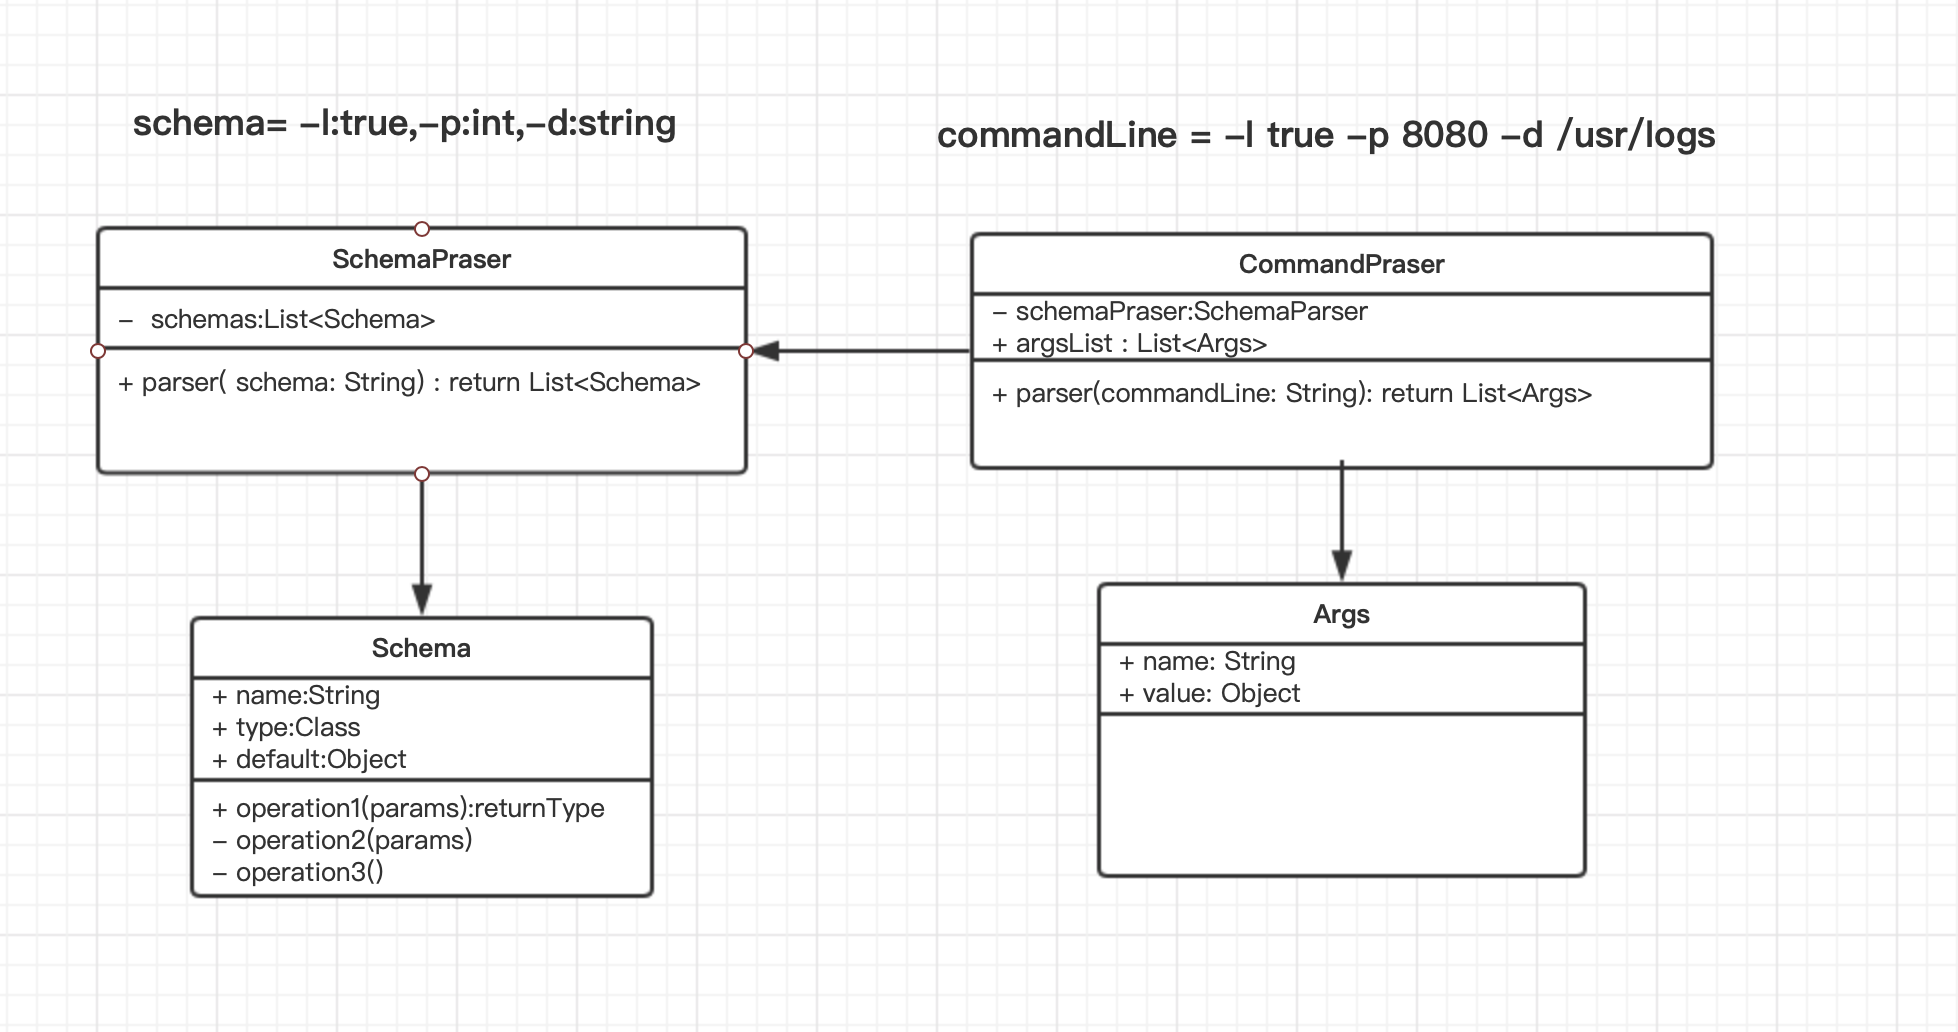
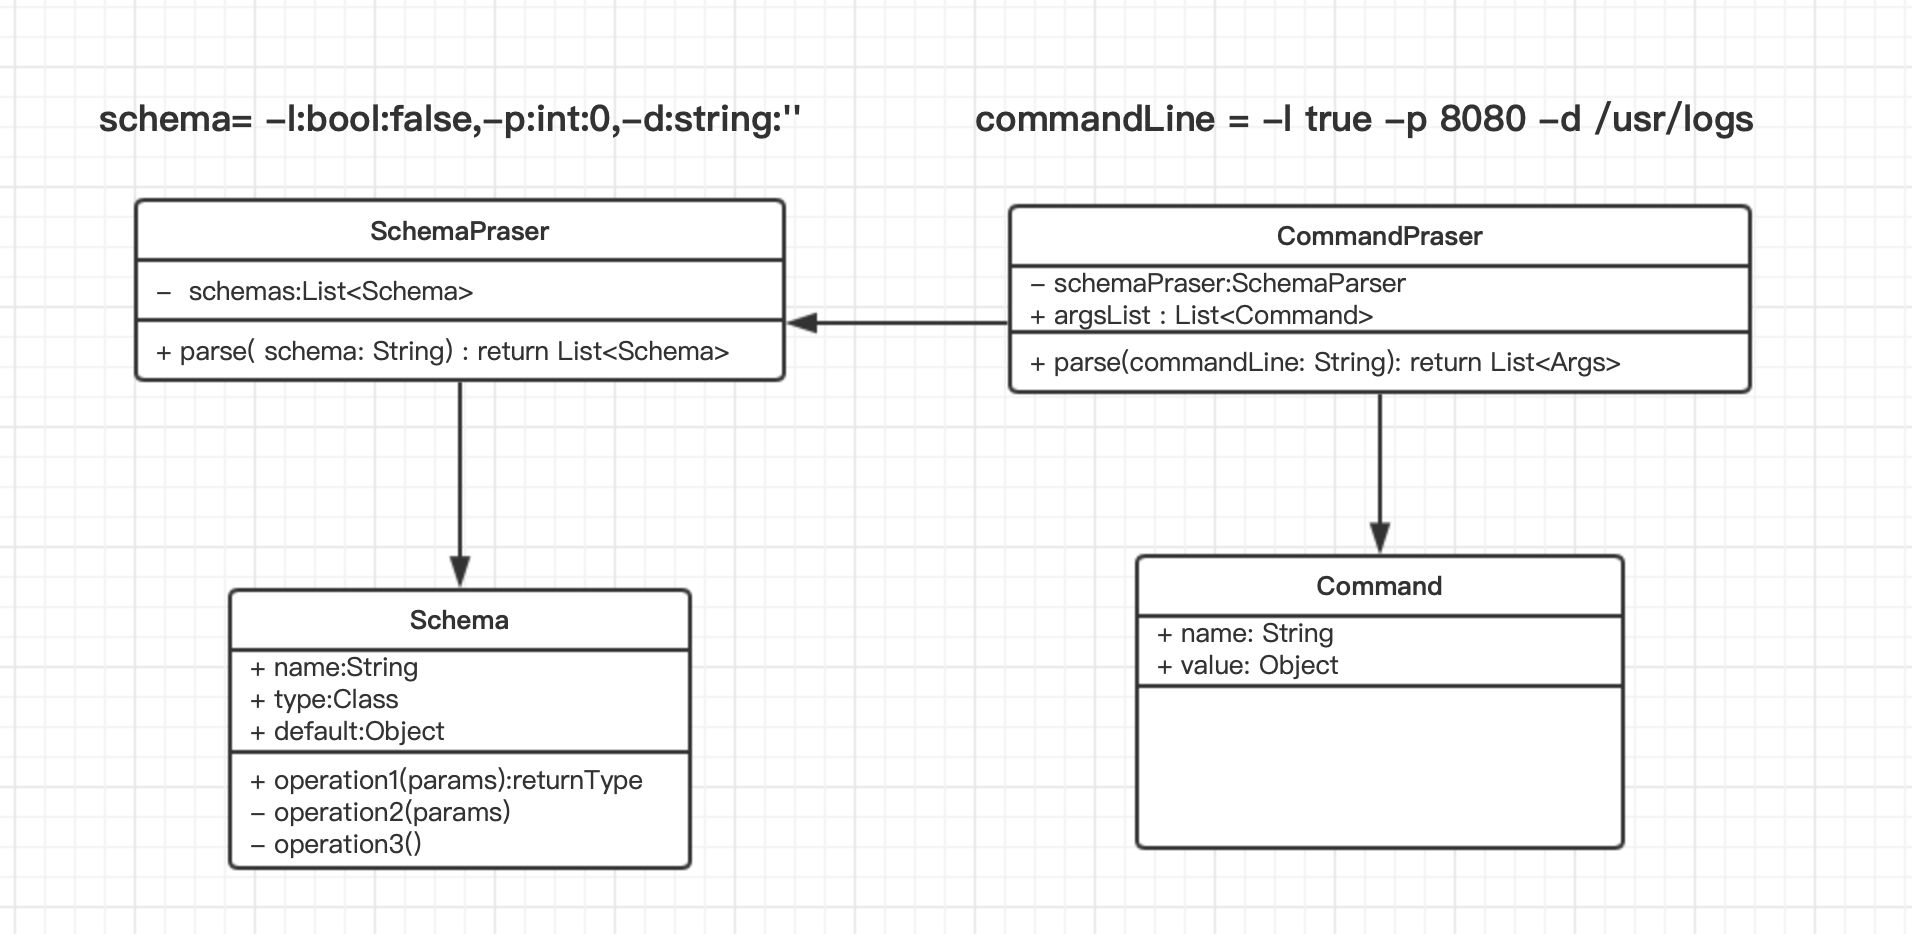
feat(args 完成): tdd 开发节奏
第一次,tdd用的不是很熟练,以后需要可以联系

Changed region(s): [[0.0309, 0.1863, 0.9257, 0.9315], [0.4629, 0.0931, 0.9257, 0.1552], [0.0309, 0.0931, 0.4012, 0.1552]]

diff --git a/任务1：Args初体验.md b/任务1：Args初体验.md
@@ -30,17 +30,33 @@
 ![](imgs/tdd-args.png)
 
 
+
+
 ps: 耗时1小时
 
+
+
 ##   2. 计时，开始编码
+编码完成,真实代码结构如下:
 
+![](imgs/args.png)
 
+ps 耗时 3小时(断断续续...)
 
 反思
   - 做完整道题用了多长时间？
+  
+  > 一共做下来花了4小时左右
 
   - 代码质量怎么样？
+  
+  > 再开始编码前,简单分析了下需求,设计了代码结构, 代码质量感觉一般
 
   - TDD的方式顺畅吗？
+  
+  > TDD 方式还是不太会用, 在写核心逻辑的时候,很容易出错,debug了好久,想来还是测试不够全面, 没有自己的 tdd 开发节奏
+  > 整个项目做下来,更感觉自己是为了tdd 而 tdd,经常是写完代码回来补个测试...
 
   - 实际做的步骤，和一开始拆分的任务是否相同？
+  
+  > 实际做的时候逼分解任务考虑的更全面, 但经常陷入细节之中,忘记 tdd, 
